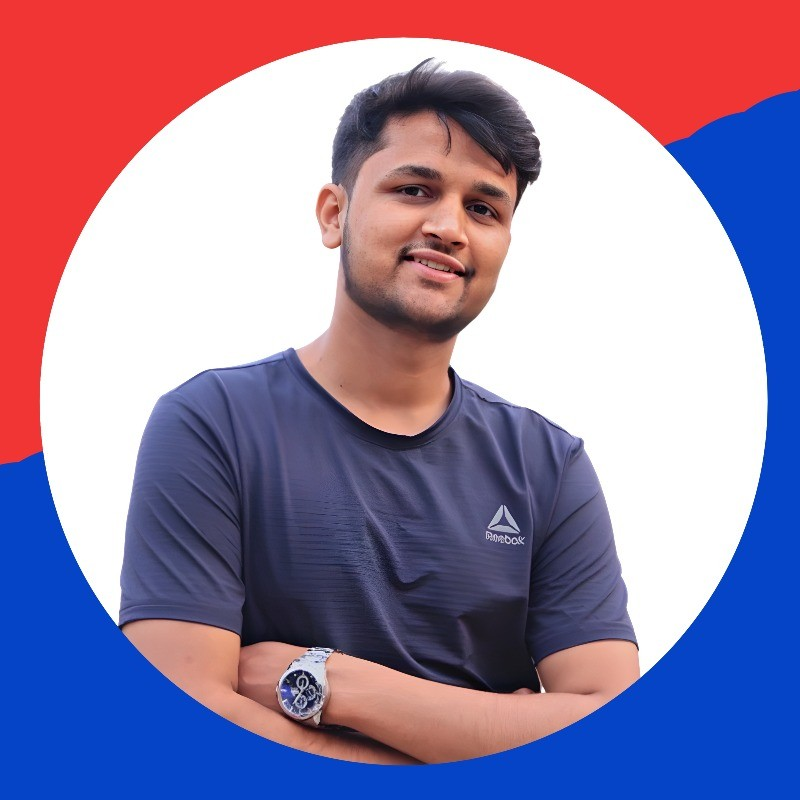
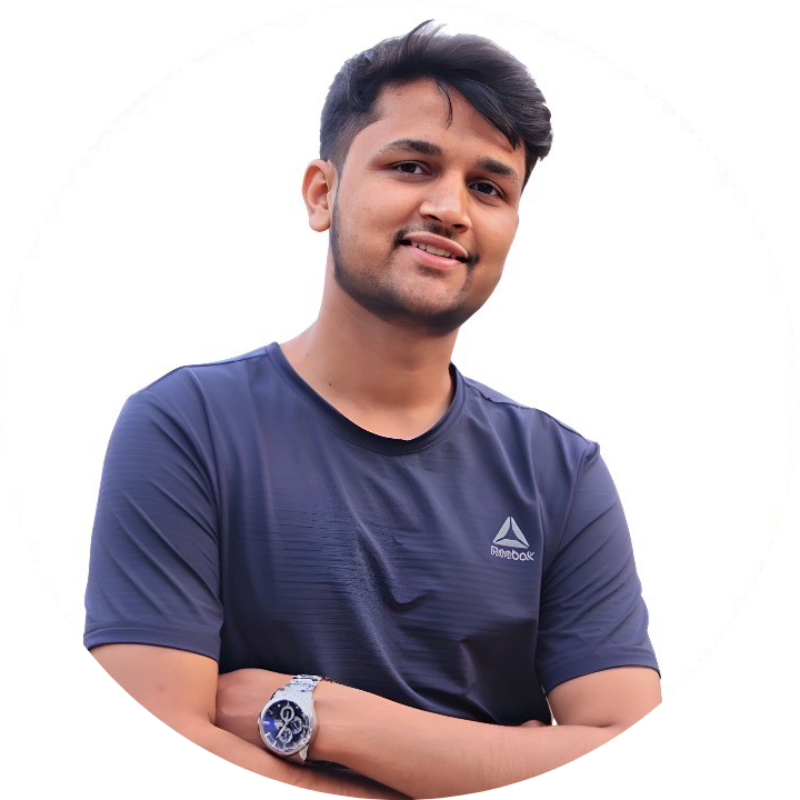
Fixed profile image code

diff --git a/src/app/layout/top-nav/top-nav.component.html b/src/app/layout/top-nav/top-nav.component.html
@@ -2,14 +2,23 @@
   class="flex w-full p-6 px-24 gap-5 max-xl:px-5 max-lg:px-20 max-sm:px-8 max-sm:pl-10 fade-in-1"
 >
   <!-- Profile Image -->
-  <img
-    class="rounded-full w-40 h-40 cursor-pointer max-sm:hidden hover:scale-[1.05] hover:drop-shadow-lg hover:shadow-md transition-all duration-1000"
-    src="./../../../assets/images/profile.jpeg"
-  />
+  <div class="relative w-40 h-40 cursor-pointer max-sm:hidden group">
+    <div
+      style="
+        background: linear-gradient(to top right, #d42626 50%, #185bae 50%);
+      "
+      class="absolute -top-[5%] -left-[5%] bg-opacity-20 rounded-full -z-10 w-[110%] h-[110%] transition-transform duration-1000 ease-in-out group-hover:rotate-180 group-hover:animate-pulse"
+    ></div>
+    <img
+      class="rounded-full w-full h-full object-cover"
+      src="./../../../assets/images/profile.jpeg"
+    />
+  </div>
 
   <!-- Title and Descriptions -->
   <div class="flex flex-col w-auto max-sm:mt-10">
     <div class="flex gap-4 items-center">
+      <!-- For mobile screen profile image -->
       <img
         class="hidden rounded-full w-10 h-10 hover:grayscale-[40%] cursor-pointer max-sm:flex"
         src="./../../../assets/images/profile.jpeg"

diff --git a/src/app/layout/top-nav/top-nav.component.scss b/src/app/layout/top-nav/top-nav.component.scss
@@ -29,4 +29,3 @@
   ::-webkit-scrollbar {
       display: none;
   }
-
